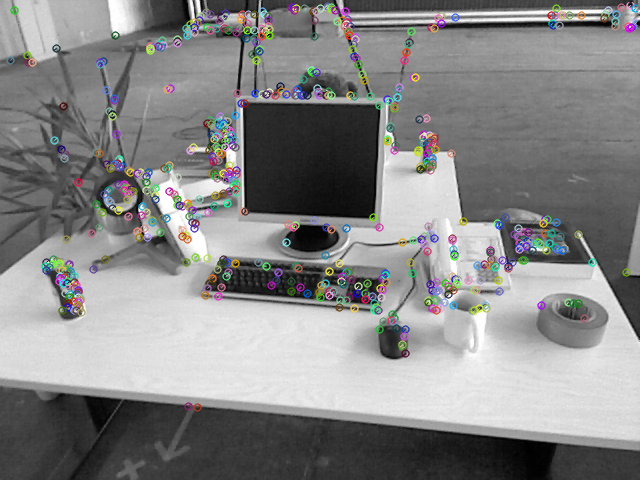
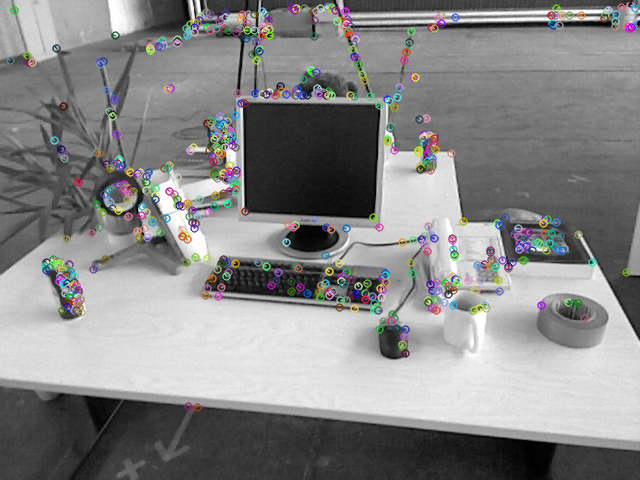
HW5 orb feature: fix: rotate on the offset, not the point itself

diff --git a/HW5/code/computeORB.cpp b/HW5/code/computeORB.cpp
@@ -56,6 +56,7 @@ int main(int argc, char **argv) {
 
     // detect FAST keypoints using threshold=40
     vector<cv::KeyPoint> keypoints;
+    chrono::steady_clock::time_point t1 = chrono::steady_clock::now();
     cv::FAST(first_image, keypoints, 40);
     cout << "keypoints: " << keypoints.size() << endl;
 
@@ -65,14 +66,6 @@ int main(int argc, char **argv) {
     // compute ORB descriptors
     vector<DescType> descriptors;
     computeORBDesc(first_image, keypoints, descriptors);
-
-    // plot the keypoints
-    cv::Mat image_show;
-    cv::drawKeypoints(first_image, keypoints, image_show, cv::Scalar::all(-1),
-                      cv::DrawMatchesFlags::DRAW_RICH_KEYPOINTS);
-    // cv::imshow("features", image_show);
-    cv::imwrite("feat1.png", image_show);
-    // cv::waitKey(0);
 
     // we can also match descriptors between images
     // same for the second
@@ -86,10 +79,25 @@ int main(int argc, char **argv) {
     // compute ORB descriptors
     vector<DescType> descriptors2;
     computeORBDesc(second_image, keypoints2, descriptors2);
+    chrono::steady_clock::time_point t2 = chrono::steady_clock::now();
+    chrono::duration<double> time_used = chrono::duration_cast<chrono::duration<double>>(t2 - t1);
+    cout << "extract ORB cost = " << time_used.count() << " seconds. " << endl;
+
+    // plot the keypoints
+    cv::Mat image_show;
+    cv::drawKeypoints(first_image, keypoints, image_show, cv::Scalar::all(-1),
+                      cv::DrawMatchesFlags::DRAW_RICH_KEYPOINTS);
+    // cv::imshow("features", image_show);
+    cv::imwrite("feat1.png", image_show);
+    // cv::waitKey(0);
 
     // find matches
     vector<cv::DMatch> matches;
+    t1 = chrono::steady_clock::now();
     bfMatch(descriptors, descriptors2, matches);
+    t2 = chrono::steady_clock::now();
+    time_used = chrono::duration_cast<chrono::duration<double>>(t2 - t1);
+    cout << "match ORB cost = " << time_used.count() << " seconds. " << endl;
     cout << "matches: " << matches.size() << endl;
 
     // plot the matches
@@ -141,8 +149,12 @@ void computeAngle(const cv::Mat &image, vector<cv::KeyPoint> &keypoints) {
         // cv::Point2f pt(static_cast<double>(m10)/m00, static_cast<double>(m01)/m00);
         // std::atan: return radian
         // cv::Point::angle: degree
-        kp.angle = std::atan2(static_cast<double>(m10)/m00-kp.pt.y, 
-            static_cast<double>(m01)/m00-kp.pt.x) / M_PI * 180.0;
+        kp.angle = std::atan2(static_cast<double>(m10)/m00-kp.pt.x, 
+            static_cast<double>(m01)/m00-kp.pt.y) / M_PI * 180.0;
+        // cout << "kp: " << kp.pt.x << ", " << kp.pt.y << endl;
+        // cout << "m00: " << m00 << ", m10: " << m10 << ", m01: " << m01 << endl;
+        // cout << "offset: " << static_cast<double>(m10)/m00-kp.pt.x << ", " << 
+            // static_cast<double>(m01)/m00-kp.pt.y << endl;
         // kp.angle = std::atan(static_cast<double>(m01)/m10) / M_PI * 180.0; // compute kp.angle 
         // END YOUR CODE HERE
     }
@@ -417,6 +429,11 @@ void computeORBDesc(const cv::Mat &image, vector<cv::KeyPoint> &keypoints, vecto
         for (int i = 0; i < 256; i++) {
             // START YOUR CODE HERE (~7 lines)
             int cx = kp.pt.x, cy = kp.pt.y;
+            double angle_rad = kp.angle / 180.0 * M_PI;
+            /** note:
+             * rotate on the offset and then add the offset to the cener, 
+             * not adding offset and then rotate on (px, py) and (qx, qy)
+             * the following is wrong!
             int px = cx + ORB_pattern[i*4], py = cy + ORB_pattern[i*4+1];
             int qx = cx + ORB_pattern[i*4+2], qy = cy + ORB_pattern[i*4+3];
             double angle_rad = kp.angle / 180.0 * M_PI;
@@ -424,6 +441,16 @@ void computeORBDesc(const cv::Mat &image, vector<cv::KeyPoint> &keypoints, vecto
             int py_rot = std::round(std::sin(angle_rad) * px + std::cos(angle_rad) * py);
             int qx_rot = std::round(std::cos(angle_rad) * qx - std::sin(angle_rad) * qy);
             int qy_rot = std::round(std::sin(angle_rad) * qx + std::cos(angle_rad) * qy);
+             **/
+            double cos_theta = std::cos(angle_rad), sin_theta = std::sin(angle_rad);
+            int pox = std::round(cos_theta * ORB_pattern[i*4] - sin_theta * ORB_pattern[i*4+1]);
+            int poy = std::round(sin_theta * ORB_pattern[i*4] + cos_theta * ORB_pattern[i*4+1]);
+            int qox = std::round(cos_theta * ORB_pattern[i*4+2] - sin_theta * ORB_pattern[i*4+3]);
+            int qoy = std::round(sin_theta * ORB_pattern[i*4+2] + cos_theta * ORB_pattern[i*4+3]);
+            int px_rot = cx + pox;
+            int py_rot = cy + poy;
+            int qx_rot = cx + qox;
+            int qy_rot = cy + qoy;
             if(px_rot < 0 || px_rot >= image.cols || py_rot < 0 || py_rot >= image.rows ||
                qx_rot < 0 || qx_rot >= image.cols || qy_rot < 0 || qy_rot >= image.rows){
                 // if kp goes outside, set d.clear()
@@ -471,8 +498,8 @@ void bfMatch(const vector<DescType> &desc1, const vector<DescType> &desc2, vecto
     }
     // END YOUR CODE HERE
 
-    for (auto &m: matches) {
-        cout << m.queryIdx << ", " << m.trainIdx << ", " << m.distance << endl;
-    }
+    // for (auto &m: matches) {
+    //     cout << m.queryIdx << ", " << m.trainIdx << ", " << m.distance << endl;
+    // }
     return;
 }
